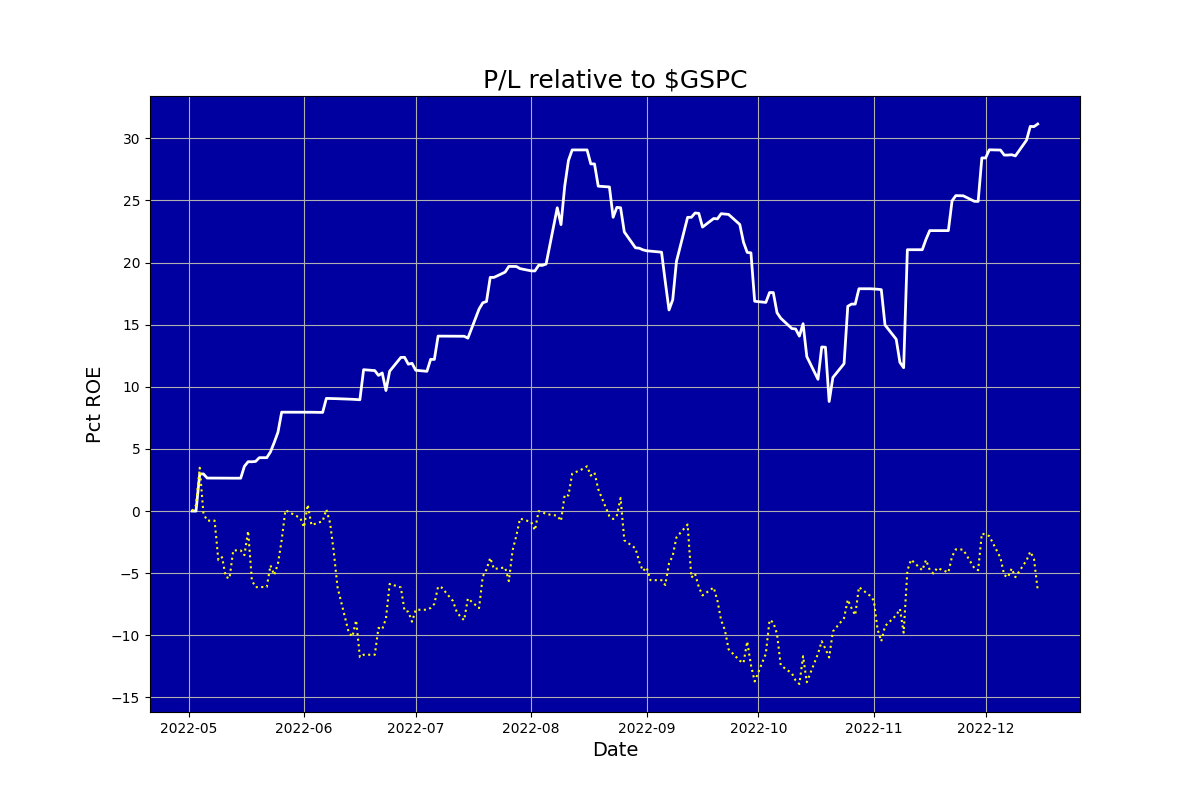
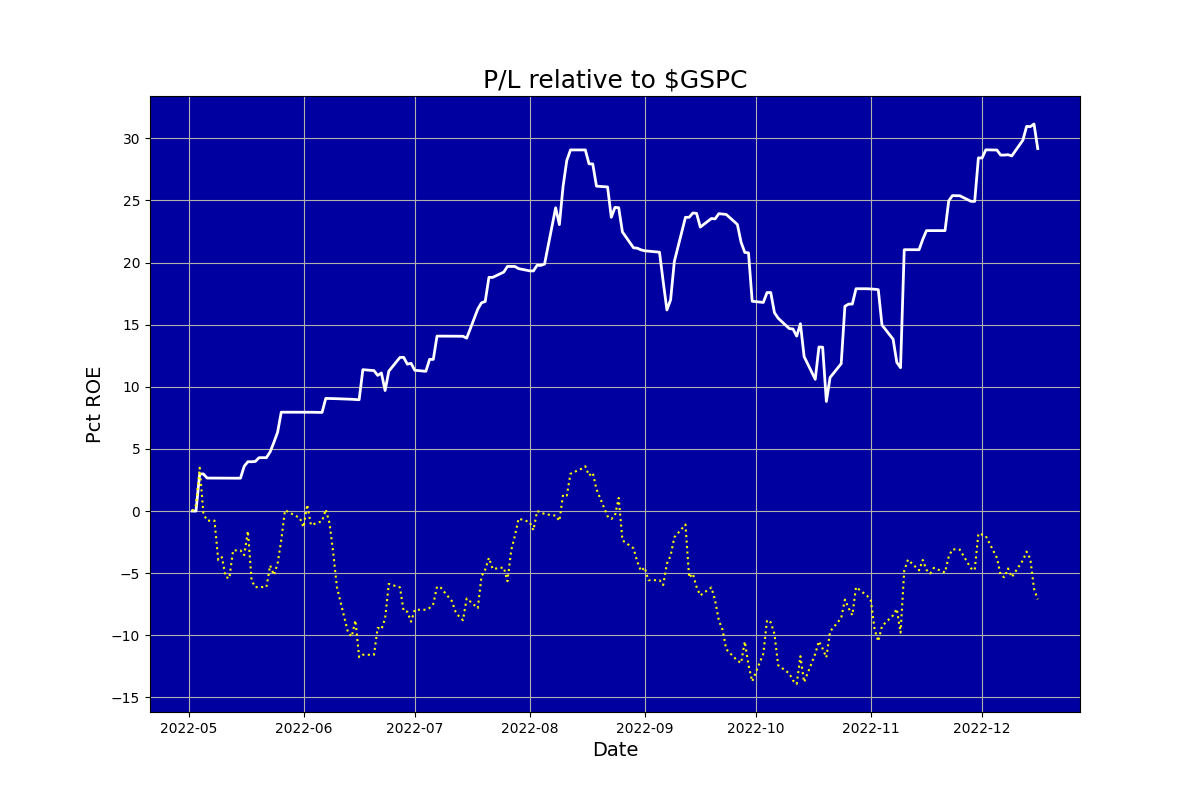
Updated

diff --git a/ig_report.html b/ig_report.html
@@ -1,1 +1,1 @@
-<html><body><center><h1>Auriel (never knowingly overbought)</h1></center><table cols=2><tr><td><img src=ig_pl.png></td><td><table cols=2><tr><td colspan=2><b><br>Snapshot</b></td></tr><tr><td>Last updated:&nbsp;&nbsp;&nbsp;</td><td>2022-12-15 15:57</td></tr><tr><td>Margin:&nbsp;&nbsp;&nbsp;</td><td>0.38</td></tr><tr><td>Cushion:&nbsp;&nbsp;&nbsp;</td><td>-3541.23</td></tr><tr><td>Last closed trade:&nbsp;&nbsp;&nbsp;</td><td>2022-12-15</td></tr><tr><td colspan=2><b><br>Positions</b></td></tr><tr><td>Mean days to new high:&nbsp;&nbsp;&nbsp;</td><td>12.61</td></tr><tr><td colspan=2><b><br>Trades</b></td></tr><tr><td>Traded days:&nbsp;&nbsp;&nbsp;</td><td>166</td></tr><tr><td>Profitable days pct:&nbsp;&nbsp;&nbsp;</td><td>34.34</td></tr><tr><td>Days beat S&P pct:&nbsp;&nbsp;&nbsp;</td><td>60.38</td></tr><tr><td>Profitable months pct:&nbsp;&nbsp;&nbsp;</td><td>87.50</td></tr><tr><td colspan=2><b><br>Performance</b></td></tr><tr><td>Pct median monthly ROE:&nbsp;&nbsp;&nbsp;</td><td>2.87</td></tr><tr><td>Pct annualised ROE:&nbsp;&nbsp;&nbsp;</td><td>42.77</td></tr><tr><td colspan=2><b><br>Risk</b></td></tr><tr><td>Volatility pct:&nbsp;&nbsp;&nbsp;</td><td>19.72</td></tr><tr><td>Benchmark volatility pct:&nbsp;&nbsp;&nbsp;</td><td>25.44</td></tr><tr><td>Sharpe ratio (RFR 3.0%):&nbsp;&nbsp;&nbsp;</td><td>2.08</td></tr><tr><td>Calmar ratio:&nbsp;&nbsp;&nbsp;</td><td>2.11</td></tr><tr><td>Worst drawdown pct:&nbsp;&nbsp;&nbsp;</td><td>-0.20</td></tr><tr><td>Recovery days from worst drawdown:&nbsp;&nbsp;&nbsp;</td><td>31.00</td></tr><tr><td>Beat benchmark +ve periods pct:&nbsp;&nbsp;&nbsp;</td><td>79.44</td></tr><tr><td>Beat benchmark -ve periods pct:&nbsp;&nbsp;&nbsp;</td><td>87.92</td></tr><tr><td>Correlation with benchmark:&nbsp;&nbsp;&nbsp;</td><td>0.41</td></tr></table></td></tr></table></body></html>
+<html><body><center><h1>Auriel (never knowingly overbought)</h1></center><table cols=2><tr><td><img src=ig_pl.png></td><td><table cols=2><tr><td colspan=2><b><br>Snapshot</b></td></tr><tr><td>Last updated:&nbsp;&nbsp;&nbsp;</td><td>2022-12-16 15:57</td></tr><tr><td>Margin:&nbsp;&nbsp;&nbsp;</td><td>0.37</td></tr><tr><td>Cushion:&nbsp;&nbsp;&nbsp;</td><td>-3902.37</td></tr><tr><td>Last closed trade:&nbsp;&nbsp;&nbsp;</td><td>2022-12-16</td></tr><tr><td colspan=2><b><br>Positions</b></td></tr><tr><td>Mean days to new high:&nbsp;&nbsp;&nbsp;</td><td>12.54</td></tr><tr><td colspan=2><b><br>Trades</b></td></tr><tr><td>Traded days:&nbsp;&nbsp;&nbsp;</td><td>167</td></tr><tr><td>Profitable days pct:&nbsp;&nbsp;&nbsp;</td><td>34.13</td></tr><tr><td>Days beat S&P pct:&nbsp;&nbsp;&nbsp;</td><td>58.75</td></tr><tr><td>Profitable months pct:&nbsp;&nbsp;&nbsp;</td><td>87.50</td></tr><tr><td colspan=2><b><br>Performance</b></td></tr><tr><td>Pct median monthly ROE:&nbsp;&nbsp;&nbsp;</td><td>2.53</td></tr><tr><td>Pct annualised ROE:&nbsp;&nbsp;&nbsp;</td><td>40.25</td></tr><tr><td colspan=2><b><br>Risk</b></td></tr><tr><td>Volatility pct:&nbsp;&nbsp;&nbsp;</td><td>19.77</td></tr><tr><td>Benchmark volatility pct:&nbsp;&nbsp;&nbsp;</td><td>25.37</td></tr><tr><td>Sharpe ratio (RFR 3.0%):&nbsp;&nbsp;&nbsp;</td><td>1.95</td></tr><tr><td>Calmar ratio:&nbsp;&nbsp;&nbsp;</td><td>1.99</td></tr><tr><td>Worst drawdown pct:&nbsp;&nbsp;&nbsp;</td><td>-0.20</td></tr><tr><td>Recovery days from worst drawdown:&nbsp;&nbsp;&nbsp;</td><td>31.00</td></tr><tr><td>Beat benchmark +ve periods pct:&nbsp;&nbsp;&nbsp;</td><td>79.63</td></tr><tr><td>Beat benchmark -ve periods pct:&nbsp;&nbsp;&nbsp;</td><td>88.07</td></tr><tr><td>Correlation with benchmark:&nbsp;&nbsp;&nbsp;</td><td>0.41</td></tr></table></td></tr></table></body></html>
